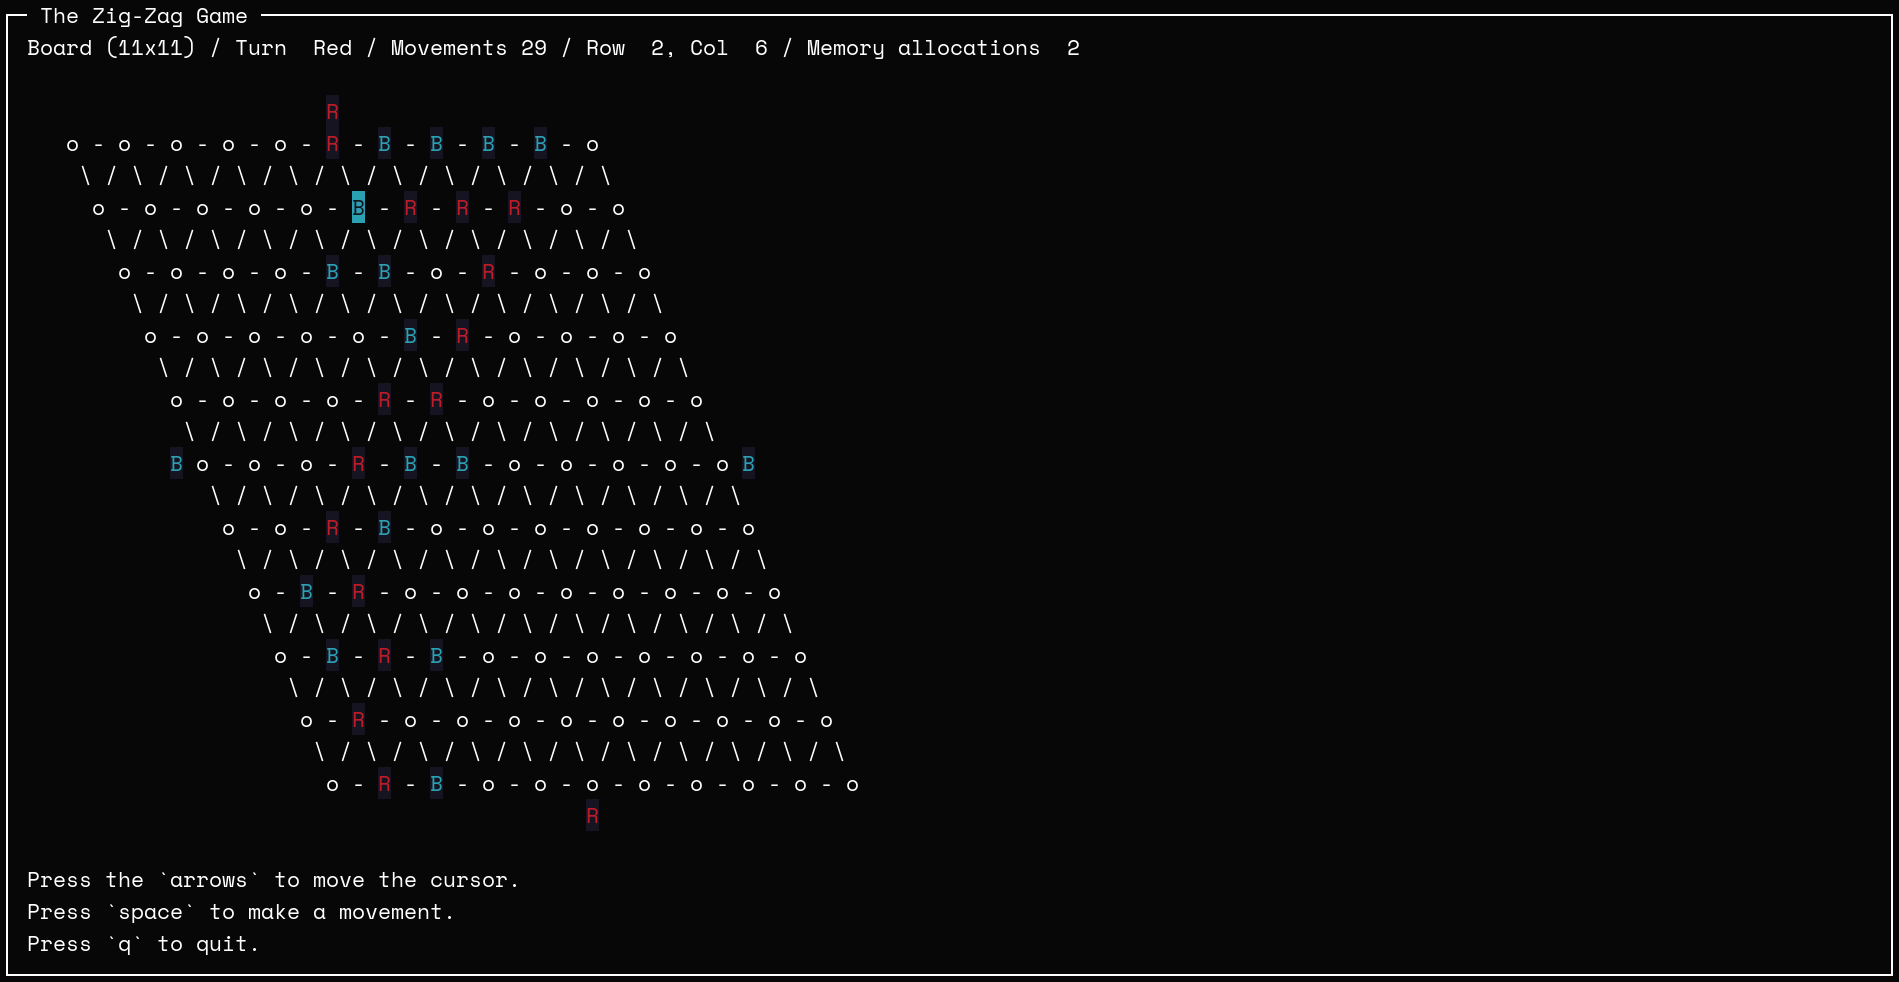
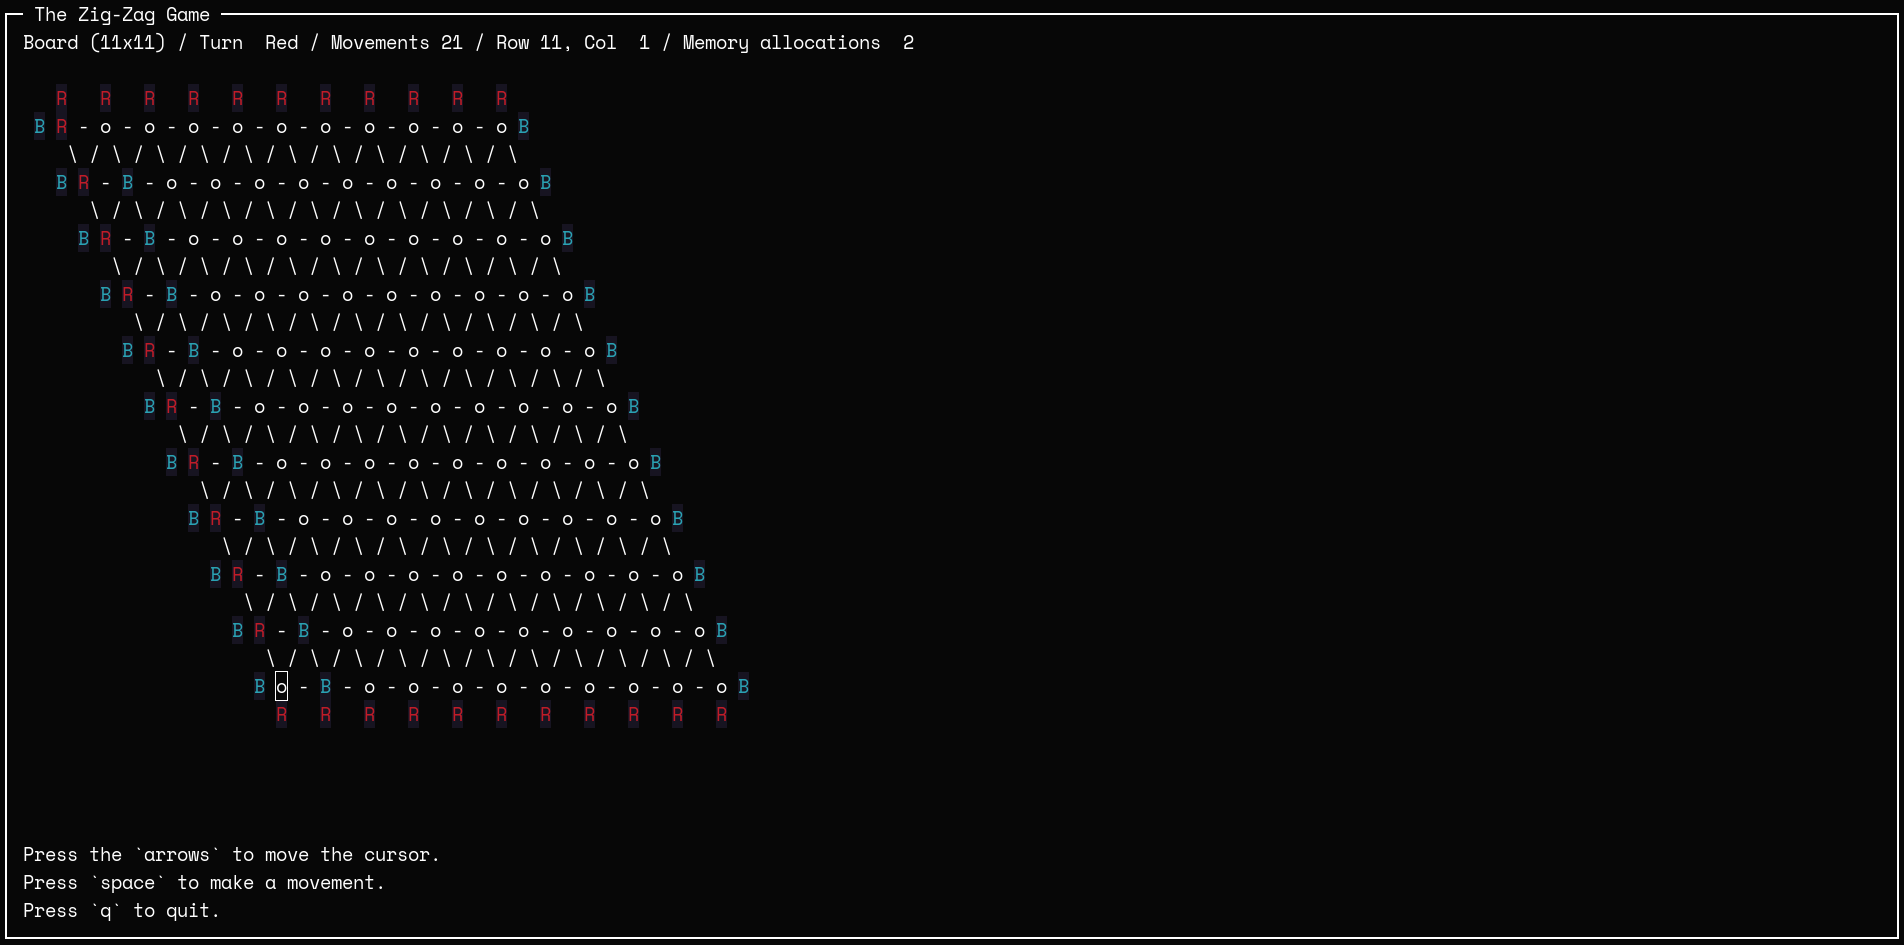
draw the player sides

diff --git a/src/window.cpp b/src/window.cpp
@@ -94,33 +94,37 @@ void Window::renderColorMarkers()
 {
     startBlue();
 
-    mvwprintw(win,
-        BOARD_START_ROW + board.getY(BOARD_SIZE/2, 0),
-        BOARD_START_COL + board.getX(BOARD_SIZE/2, 0) - 2,
-        "B"
-    );
+    for (int i = 0; i < BOARD_SIZE; i++) {
+        mvwprintw(win,
+            BOARD_START_ROW + board.getY(i, 0),
+            BOARD_START_COL + board.getX(i, 0) - 2,
+            "B"
+        );
 
-    mvwprintw(win,
-        BOARD_START_ROW + board.getY(BOARD_SIZE/2, 0),
-        BOARD_START_COL + board.getX(BOARD_SIZE/2, BOARD_SIZE - 1) + 2,
-        "B"
-    );
+        mvwprintw(win,
+            BOARD_START_ROW + board.getY(i, 0),
+            BOARD_START_COL + board.getX(i, BOARD_SIZE - 1) + 2,
+            "B"
+        );
+    }
 
     endBlue();
 
     startRed();
 
-    mvwprintw(win,
-        BOARD_START_ROW + board.getY(0, 0) - 1,
-        BOARD_START_COL + board.getX(0, BOARD_SIZE/2),
-        "R"
-    );
+    for (int i = 0; i < BOARD_SIZE; i++) {
+        mvwprintw(win,
+            BOARD_START_ROW + board.getY(0, i) - 1,
+            BOARD_START_COL + board.getX(0, i),
+            "R"
+        );
 
-    mvwprintw(win,
-        BOARD_START_ROW + board.getY(BOARD_SIZE - 1, BOARD_SIZE/2) + 1,
-        BOARD_START_COL + board.getX(BOARD_SIZE - 1, BOARD_SIZE/2),
-        "R"
-    );
+        mvwprintw(win,
+            BOARD_START_ROW + board.getY(BOARD_SIZE - 1, i) + 1,
+            BOARD_START_COL + board.getX(BOARD_SIZE - 1, i),
+            "R"
+        );
+    }
 
     endRed();
 }
